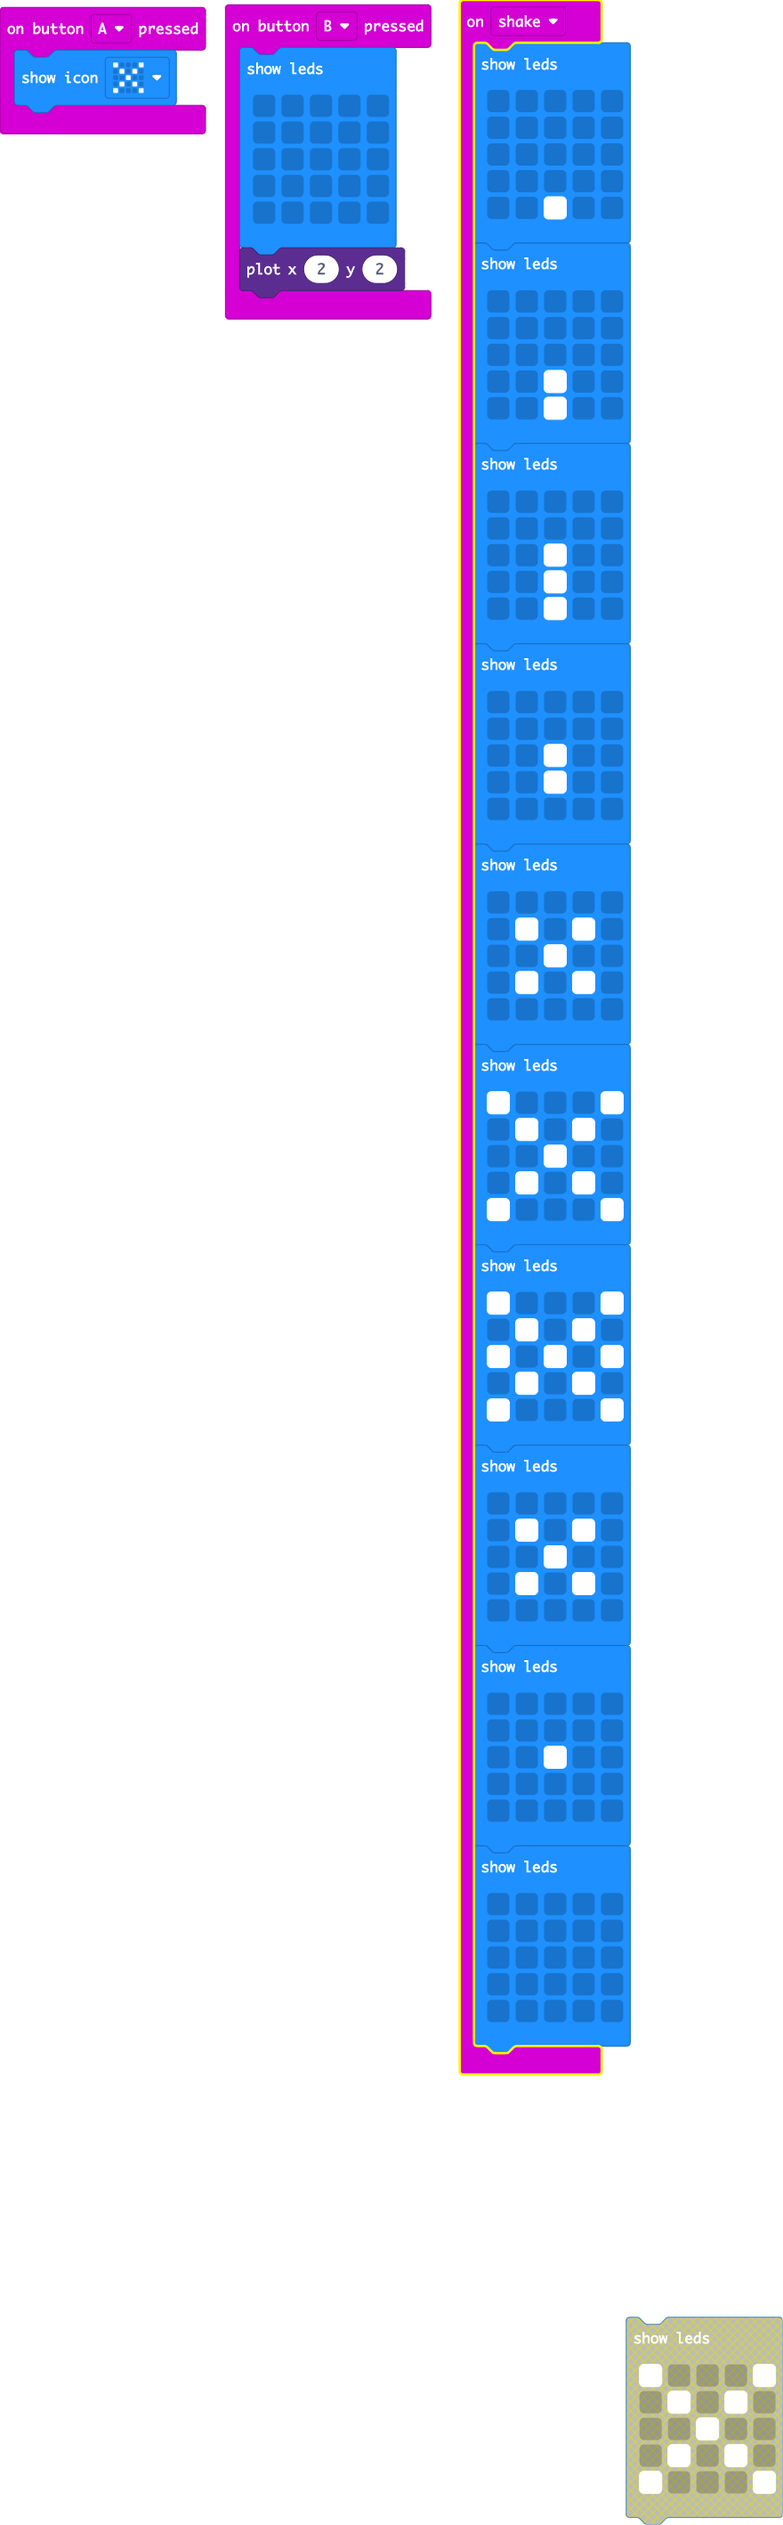
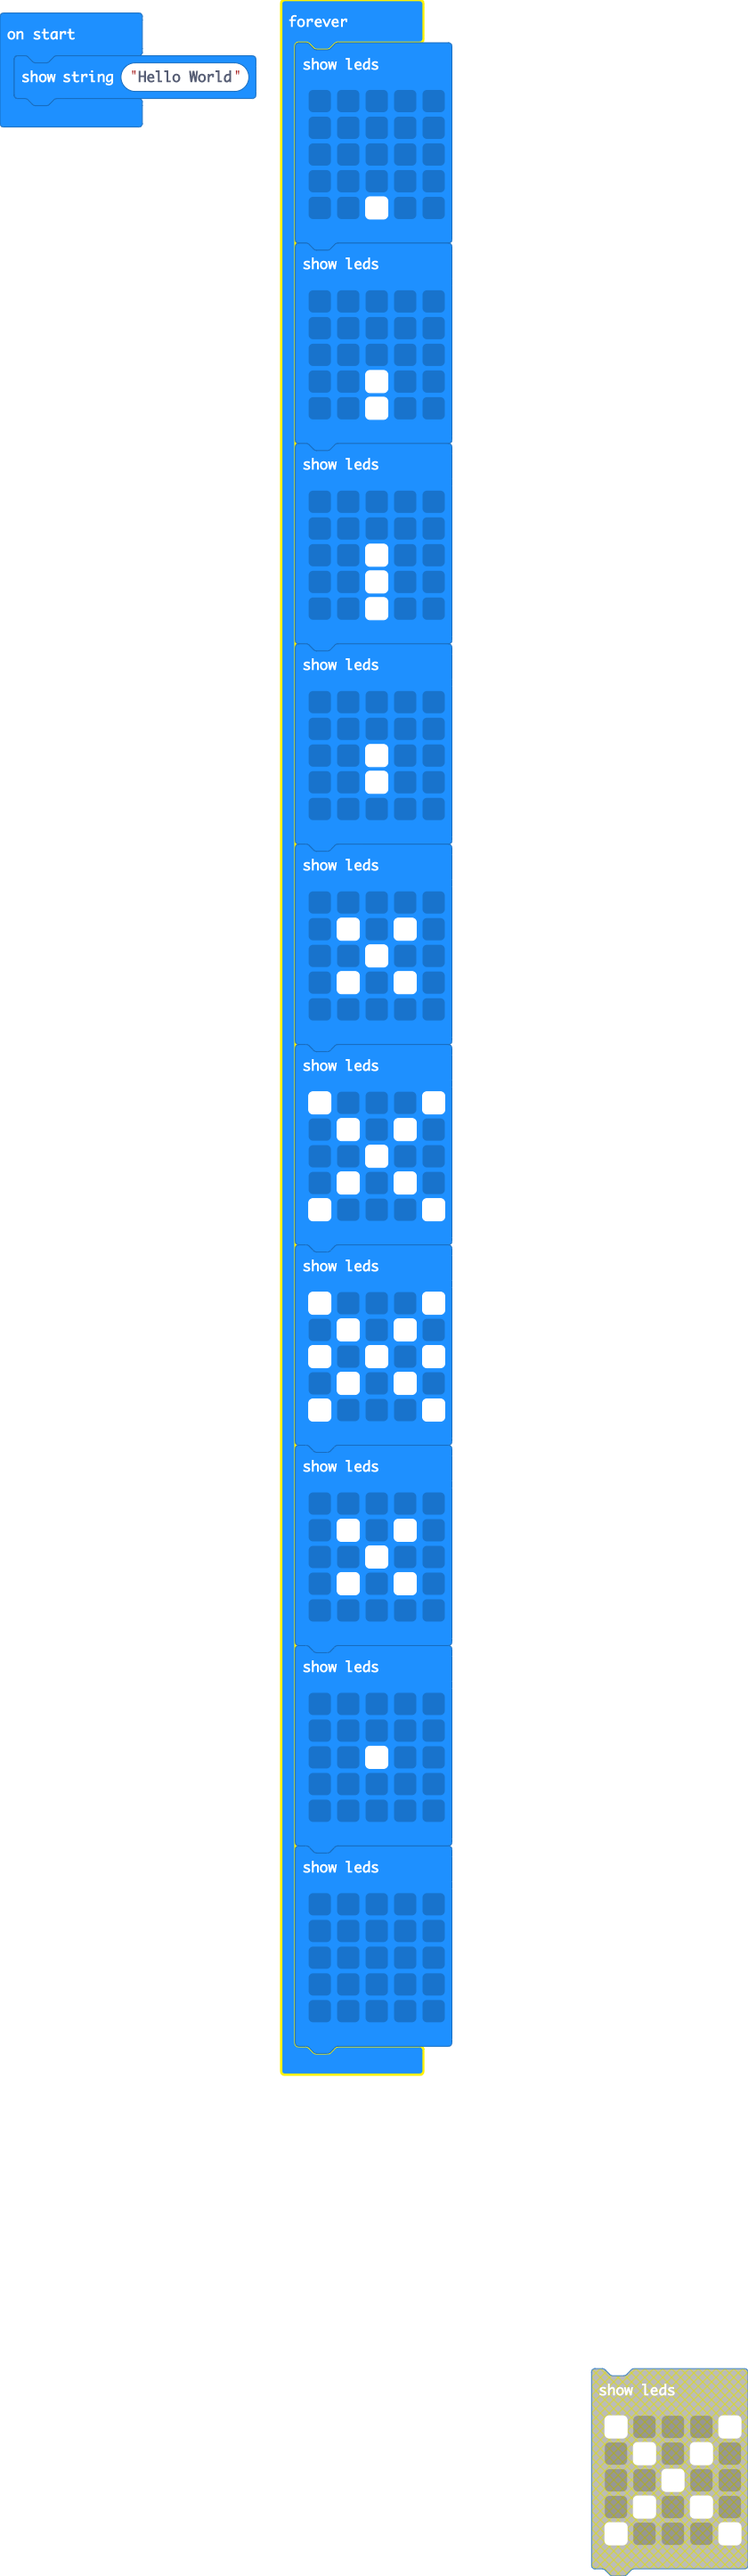
Update main.blocks, main.ts

diff --git a/main.ts b/main.ts
@@ -1,17 +1,5 @@
-input.onButtonPressed(Button.A, function () {
-    basic.showIcon(IconNames.No)
-})
-input.onButtonPressed(Button.B, function () {
-    basic.showLeds(`
-        . . . . .
-        . . . . .
-        . . . . .
-        . . . . .
-        . . . . .
-        `)
-    led.plot(2, 2)
-})
-input.onGesture(Gesture.Shake, function () {
+basic.showString("Hello World")
+basic.forever(function () {
     basic.showLeds(`
         . . . . .
         . . . . .
